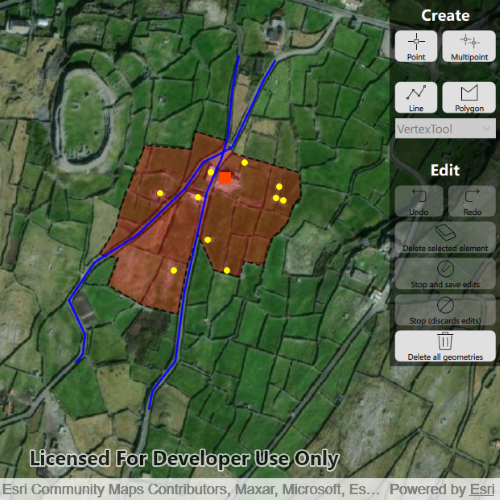
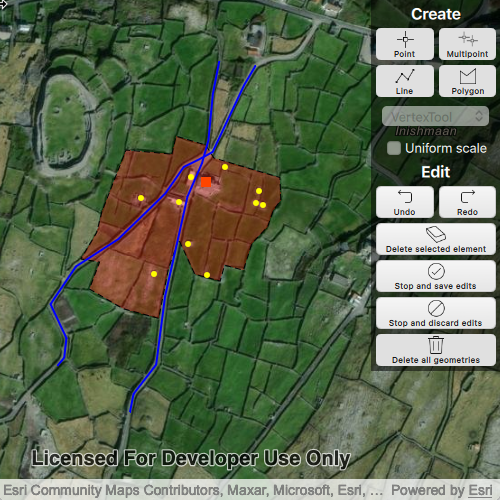
Shell0002/geomedit shapes rotate scale (#1623)
* Rotate, scale, and shape tools update.

* Checkbox enabling

* Bug fix - brackets

* Update readme and screenshot for 200.2 rotate, scale and shape functionality

* Format code files

Size screenshot

* Apply suggestions from code review

---------

diff --git a/ArcGISRuntimeSDKQt_QMLSamples/Geometry/CreateAndEditGeometries/CreateAndEditGeometries.qml b/ArcGISRuntimeSDKQt_QMLSamples/Geometry/CreateAndEditGeometries/CreateAndEditGeometries.qml
@@ -133,6 +133,14 @@ Rectangle {
         id: freehandTool
     }
 
+    property ShapeTool arrowTool: Factory.ShapeTool.create(Enums.ShapeToolTypeArrow);
+
+    property ShapeTool ellipseTool: Factory.ShapeTool.create(Enums.ShapeToolTypeEllipse);
+
+    property ShapeTool rectangleTool: Factory.ShapeTool.create(Enums.ShapeToolTypeRectangle);
+
+    property ShapeTool triangleTool: Factory.ShapeTool.create(Enums.ShapeToolTypeTriangle);
+
     SimpleMarkerSymbol {
         id: pointSymbol
         style: Enums.SimpleMarkerSymbolStyleSquare
@@ -251,7 +259,7 @@ Rectangle {
 
                 ComboBox {
                     id: toolCombo
-                    model: [qsTr("VertexTool"), qsTr("FreehandTool")]
+                    model: [qsTr("VertexTool"), qsTr("FreehandTool"), qsTr("Arrow ShapeTool"), qsTr("Ellipse ShapeTool"), qsTr("Rectangle ShapeTool"), qsTr("Triangle ShapeTool")]
                     Layout.columnSpan: 2
                     Layout.fillWidth: true
 
@@ -287,11 +295,57 @@ Rectangle {
                         case 1: // Freehand Tool
                             geometryEditor.tool = freehandTool;
                             break;
+                        case 2: // ShapeTool with arrow shape type
+                            geometryEditor.tool = arrowTool;
+                            break;
+                        case 3: // ShapeTool with ellipse shape type
+                            geometryEditor.tool = ellipseTool;
+                            break;
+                        case 4: // ShapeTool with rectangle shape type
+                            geometryEditor.tool = rectangleTool;
+                            break;
+                        case 5: // ShapeTool with triangle shape type
+                            geometryEditor.tool = triangleTool;
+                            break;
                         default:
                             geometryEditor.tool = vertexTool;
                         }
                     }
                 }
+            }
+
+            CheckBox {
+                id: uniformScaleCheckBox
+                Layout.alignment: Qt.AlignHCenter | Qt.AlignVCenter
+                Layout.columnSpan: 2
+                text: "<font color=\"white\">Uniform scale</font>"
+                enabled: {
+                    if (!geometryEditor.started) {
+                        false;
+                    }
+                    else {
+                        switch (geometryEditor.geometry.geometryType) {
+                        case Enums.GeometryTypePoint:
+                            false;
+                            break;
+                        case Enums.GeometryTypeMultipoint:
+                        case Enums.GeometryTypePolyline:
+                        case Enums.GeometryTypePolygon:
+                            true;
+                        }
+                    }
+                }
+                checked: geometryEditor.tool.configuration.scaleMode === Enums.GeometryEditorScaleModeUniform;
+                onCheckStateChanged:
+                {
+                    vertexTool.configuration.scaleMode = (checked ? Enums.GeometryEditorScaleModeUniform : Enums.GeometryEditorScaleModeStretch)
+                    freehandTool.configuration.scaleMode = (checked ? Enums.GeometryEditorScaleModeUniform : Enums.GeometryEditorScaleModeStretch)
+                    arrowTool.configuration.scaleMode = (checked ? Enums.GeometryEditorScaleModeUniform : Enums.GeometryEditorScaleModeStretch)
+                    ellipseTool.configuration.scaleMode = (checked ? Enums.GeometryEditorScaleModeUniform : Enums.GeometryEditorScaleModeStretch)
+                    rectangleTool.configuration.scaleMode = (checked ? Enums.GeometryEditorScaleModeUniform : Enums.GeometryEditorScaleModeStretch)
+                    triangleTool.configuration.scaleMode = (checked ? Enums.GeometryEditorScaleModeUniform : Enums.GeometryEditorScaleModeStretch)
+                }
+
             }
 
             GridLayout {

diff --git a/ArcGISRuntimeSDKQt_QMLSamples/Geometry/CreateAndEditGeometries/main.cpp b/ArcGISRuntimeSDKQt_QMLSamples/Geometry/CreateAndEditGeometries/main.cpp
@@ -22,30 +22,31 @@ void setAPIKey(const QGuiApplication& app, QString apiKey);
 
 int main(int argc, char *argv[])
 {
-  QGuiApplication app(argc, argv);
-  app.setApplicationName(QString("CreateAndEditGeometries - QML"));
+    QGuiApplication app(argc, argv);
+    app.setApplicationName(QString("CreateAndEditGeometries - QML"));
 
-  // Access to Esri location services requires an API key. This can be copied below or used as a command line argument.
-  const QString apiKey = QString("");
-  setAPIKey(app, apiKey);
+    // Access to Esri location services requires an API key. This can be copied below or used as a command line argument.
+    const QString apiKey = QString("");
 
-  // Initialize application view
-  QQuickView view;
-  view.setResizeMode(QQuickView::SizeRootObjectToView);
+    setAPIKey(app, apiKey);
 
-  // Add the import Path
-  view.engine()->addImportPath(QDir(QCoreApplication::applicationDirPath()).filePath("qml"));
+    // Initialize application view
+    QQuickView view;
+    view.setResizeMode(QQuickView::SizeRootObjectToView);
+
+    // Add the import Path
+    view.engine()->addImportPath(QDir(QCoreApplication::applicationDirPath()).filePath("qml"));
 
 #ifdef ARCGIS_RUNTIME_IMPORT_PATH_2
-  view.engine()->addImportPath(ARCGIS_RUNTIME_IMPORT_PATH_2);
+    view.engine()->addImportPath(ARCGIS_RUNTIME_IMPORT_PATH_2);
 #endif
 
-  // Set the source
-  view.setSource(QUrl("qrc:/Samples/Geometry/CreateAndEditGeometries/CreateAndEditGeometries.qml"));
+    // Set the source
+    view.setSource(QUrl("qrc:/Samples/Geometry/CreateAndEditGeometries/CreateAndEditGeometries.qml"));
 
-  view.show();
+    view.show();
 
-  return app.exec();
+    return app.exec();
 }
 
 // Use of Esri location services, including basemaps and geocoding,
@@ -59,23 +60,23 @@ int main(int argc, char *argv[])
 
 void setAPIKey(const QGuiApplication& app, QString apiKey)
 {
-  if (apiKey.isEmpty())
-  {
-    // Try parsing API key from command line argument, which uses the following syntax "-k <apiKey>".
-    QCommandLineParser cmdParser;
-    QCommandLineOption apiKeyArgument(QStringList{"k", "api"}, "The API Key property used to access Esri location services", "apiKeyInput");
-    cmdParser.addOption(apiKeyArgument);
-    cmdParser.process(app);
-
-    apiKey = cmdParser.value(apiKeyArgument);
-
     if (apiKey.isEmpty())
     {
-      qWarning() << "Use of Esri location services, including basemaps, requires" <<
-                    "you to authenticate with an ArcGIS identity or set the API Key property.";
-      return;
-    }
-  }
+        // Try parsing API key from command line argument, which uses the following syntax "-k <apiKey>".
+        QCommandLineParser cmdParser;
+        QCommandLineOption apiKeyArgument(QStringList{"k", "api"}, "The API Key property used to access Esri location services", "apiKeyInput");
+        cmdParser.addOption(apiKeyArgument);
+        cmdParser.process(app);
 
-  QCoreApplication::instance()->setProperty("Esri.ArcGISRuntime.apiKey", apiKey);
+        apiKey = cmdParser.value(apiKeyArgument);
+
+        if (apiKey.isEmpty())
+        {
+            qWarning() << "Use of Esri location services, including basemaps, requires" <<
+                "you to authenticate with an ArcGIS identity or set the API Key property.";
+            return;
+        }
+    }
+
+    QCoreApplication::instance()->setProperty("Esri.ArcGISRuntime.apiKey", apiKey);
 }

diff --git a/ArcGISRuntimeSDKQt_QMLSamples/Geometry/CreateAndEditGeometries/README.md b/ArcGISRuntimeSDKQt_QMLSamples/Geometry/CreateAndEditGeometries/README.md
@@ -10,7 +10,13 @@ A field worker can mark features of interest on a map using an appropriate geome
 
 ## How to use the sample
 
-To create a new geometry, press the button appropriate for the geometry type you want to create (i.e. points, multipoints, polyline, or polygon) and interactively tap and drag on the map view to create the geometry. To edit an existing geometry, tap the geometry to be edited in the map to select it and then edit the geometry by tapping and dragging elements of the geometry. If creating or editing polyline or polygon geometries, choose the desired creation/editing tool (i.e. `VertexTool` or `FreehandTool`).
+To create a new geometry, press the button appropriate for the geometry type you want to create (i.e. points, multipoints, polyline, or polygon) and interactively tap and drag on the map view to create the geometry.
+
+To edit an existing geometry, tap the geometry to be edited in the map to select it and then edit the geometry by tapping and dragging elements of the geometry.
+
+When the whole geometry is selected, you can use the control handles to scale and rotate the geometry.
+
+If creating or editing polyline or polygon geometries, choose the desired creation/editing tool from the combo box.
 
 Use the control panel to undo or redo changes made to the geometry, delete a selected element, save the geometry, stop the editing session and discard any edits, and remove all geometries from the map.
 
@@ -24,10 +30,11 @@ Use the control panel to undo or redo changes made to the geometry, delete a sel
         - Find the desired graphic in the `IdentifyGraphicsOverlayResult.graphics` list.
         - Access the geometry associated with the `Graphic` using `Graphic.geometry()` - this will be used in the `GeometryEditor.start(Geometry)` method.
 
-3. Create `VertexTool` or `FreehandTool` objects which define how the user interacts with the view to create or edit geometries, using `geometryEditor.setTool(geometryEditorTool)`.
-4. Check to see if undo and redo are possible during an editing session using `GeometryEditor.canUndo()` and `GeometryEditor.canRedo()`. If it's possible, use `GeometryEditor.undo()` and `GeometryEditor.redo()`.
-5. Check whether the currently selected `GeometryEditorElement` can be deleted (`GeometryEditor.selectedElement.canDelete`). If the element can be deleted, delete using `GeometryEditor.deleteSelectedElement`.
-6. Call `GeometryEditor.stop()` to finish the editing session. The `GeometryEditor` does not automatically handle the visualization of a geometry output from an editing session. This must be done manually by propagating the geometry returned by `GeometryEditor.stop()` into a `Graphic` and a `GraphicsOverlay`.
+3. Create `VertexTool`, `FreehandTool`, or `ShapeTool` objects which define how the user interacts with the view to create or edit geometries, using `geometryEditor.setTool(geometryEditorTool)`.
+4. Edit a tool's `InteractionConfiguration` to set the `GeometryEditorScaleMode` to allow either uniform or stretch scale mode.
+5. Check to see if undo and redo are possible during an editing session using `GeometryEditor.canUndo()` and `GeometryEditor.canRedo()`. If it's possible, use `GeometryEditor.undo()` and `GeometryEditor.redo()`.
+6. Check whether the currently selected `GeometryEditorElement` can be deleted (`GeometryEditor.selectedElement.canDelete`). If the element can be deleted, delete using `GeometryEditor.deleteSelectedElement`.
+7. Call `GeometryEditor.stop()` to finish the editing session. The `GeometryEditor` does not automatically handle the visualization of a geometry output from an editing session. This must be done manually by propagating the geometry returned by `GeometryEditor.stop()` into a `Graphic` and a `GraphicsOverlay`.
     - To create a new `Graphic` in the `GraphicsOverlay`:
         - Using `Graphic.Graphic(Geometry)`, create a new Graphic with the geometry returned by the `GeometryEditor.stop()` method.
         - Append the `Graphic` to the `GraphicsOverlay`'s `GraphicListModel` (i.e. `GraphicsOverlay.graphics.append(Graphic)`).
